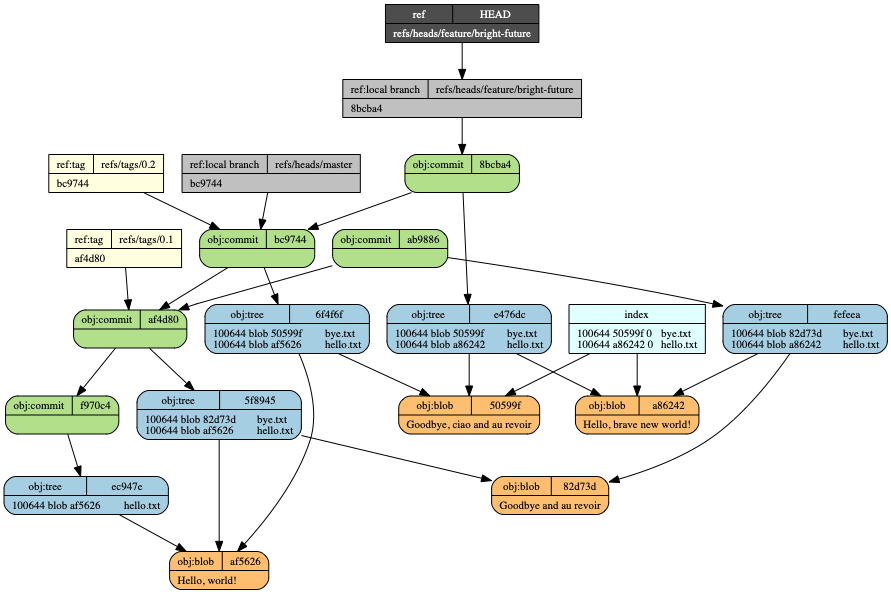
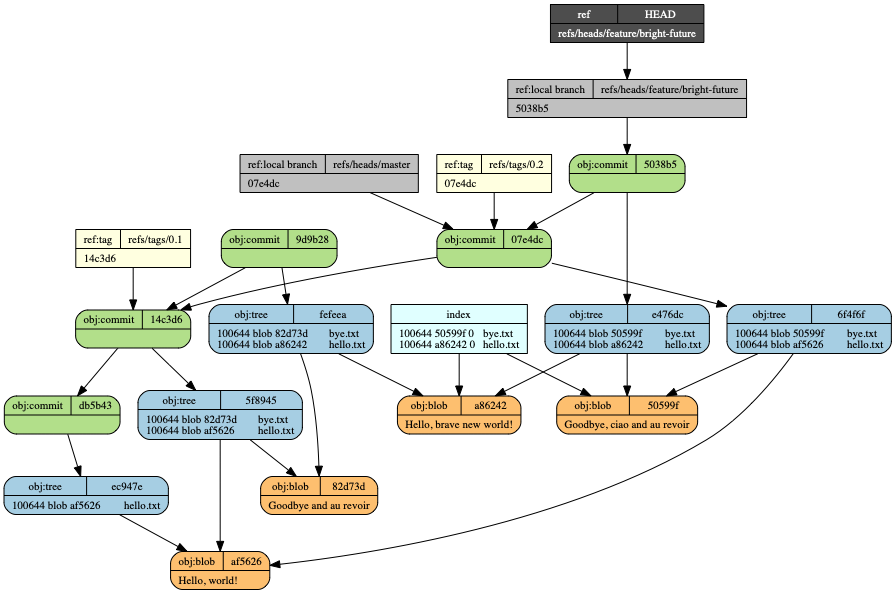
add a third example, fetching a completely unrelated repo (with some common files)

diff --git a/index.html b/index.html
@@ -299,6 +299,37 @@
           </section>
         </section>
 
+        <section>
+          <h2>One more thing</h2>
+        </section>
+
+        <section>
+          <section>
+             <pre><code class="shell" data-sample="demo/transcript2/fetch-the-other-repo.shell"></code></pre>
+          </section>
+          <section>
+            <img src="demo/img2/fetch-the-other-repo.png"/>
+          </section>
+        </section>
+
+        <section>
+          <section>
+             <pre><code class="shell" data-sample="demo/transcript2/awake-the-other-repo.shell"></code></pre>
+          </section>
+          <section>
+            <img src="demo/img2/awake-the-other-repo.png"/>
+          </section>
+        </section>
+
+        <section>
+          <section>
+             <pre><code class="shell" data-sample="demo/transcript2/merge-the-other-repo.shell"></code></pre>
+          </section>
+          <section>
+            <img src="demo/img2/merge-the-other-repo.png"/>
+          </section>
+        </section>
+
         <section style="font-size: 14pt">
           <h2>Further reading, listening, watching and playing</h2>
           <p>This presentation
@@ -313,7 +344,7 @@
             <a class="explicit-link">https://alexwlchan.net/a-plumbers-guide-to-git/</a></p>
           <p>git-draw - draw the structure of (tiny) git repos
             <a class="explicit-link">https://github.com/sensorflo/git-draw/wiki</a></p>
-          <p>commits, branches, merging etc. illustrated (interactive!)
+          <p>Interactive illustration of commits, branches, merging etc.
             <a class="explicit-link">https://learngitbranching.js.org/</a></p>
         </section>
 
